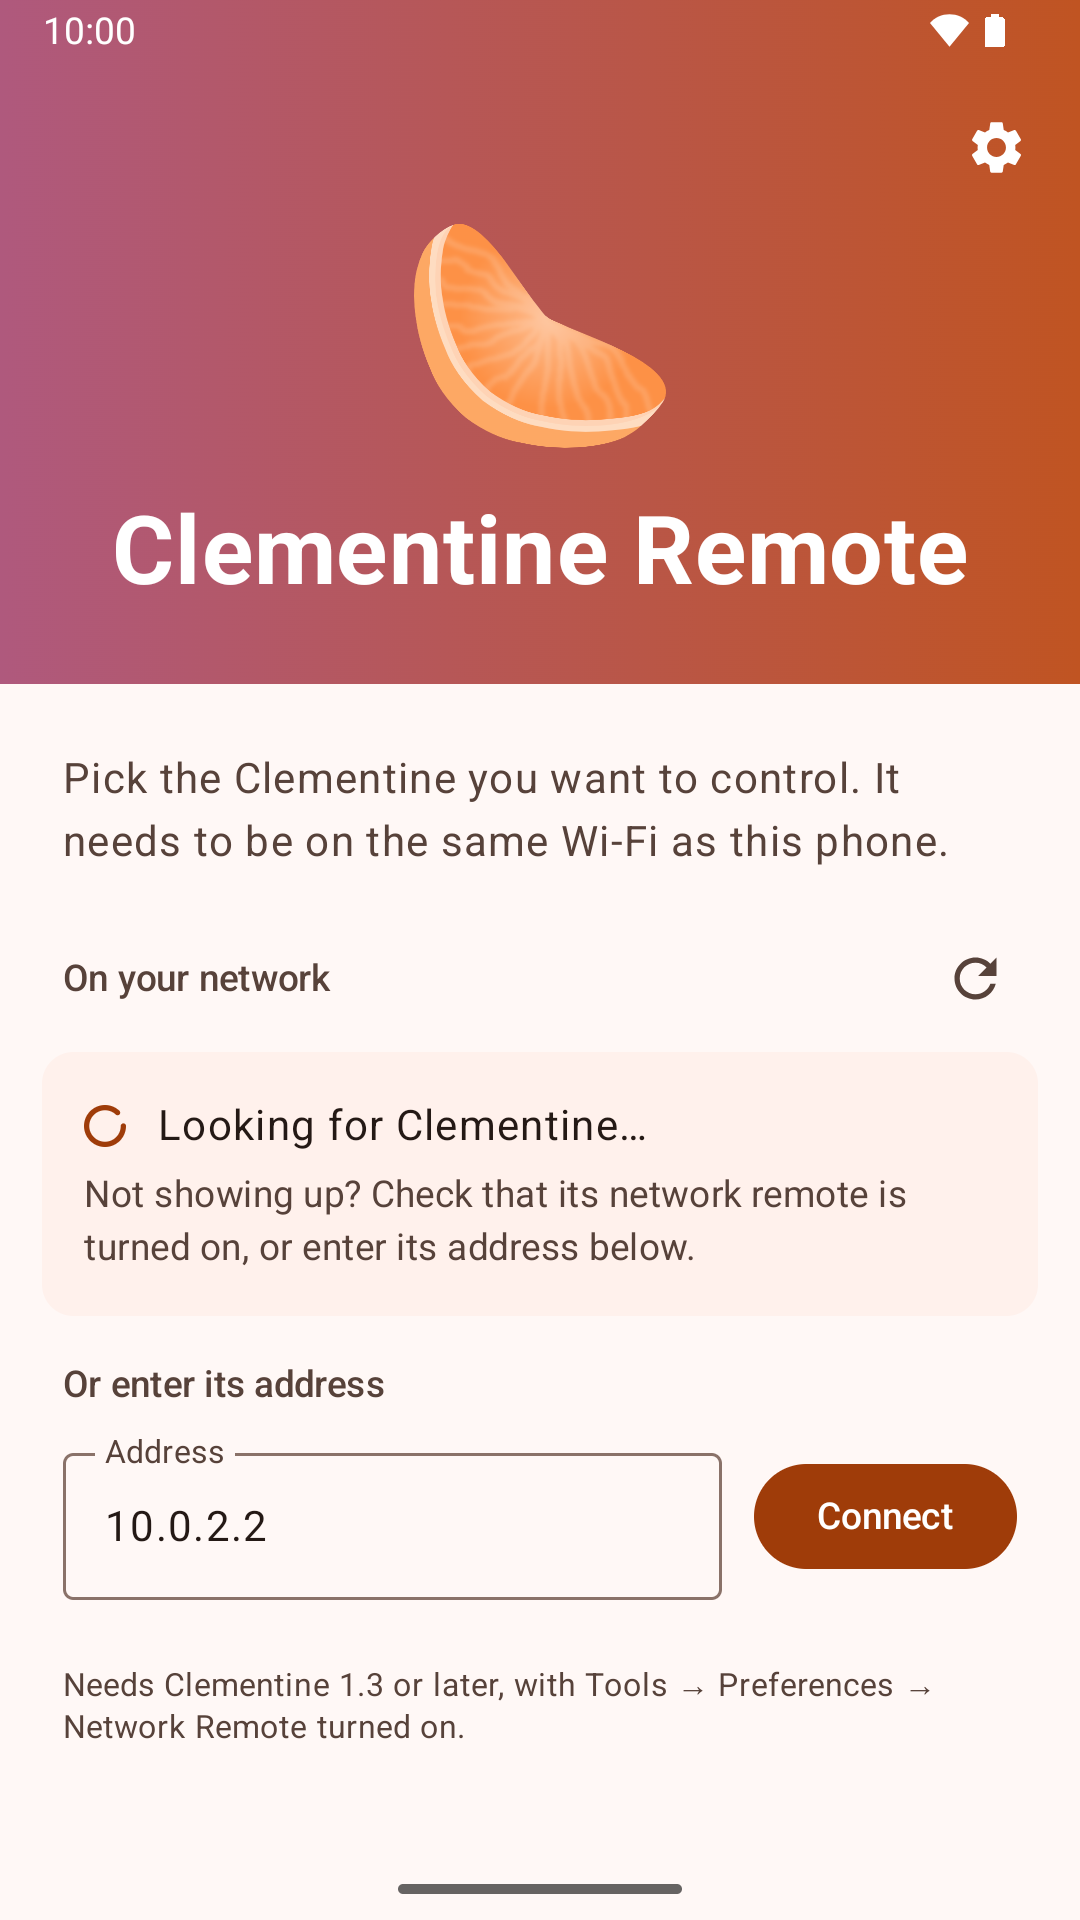
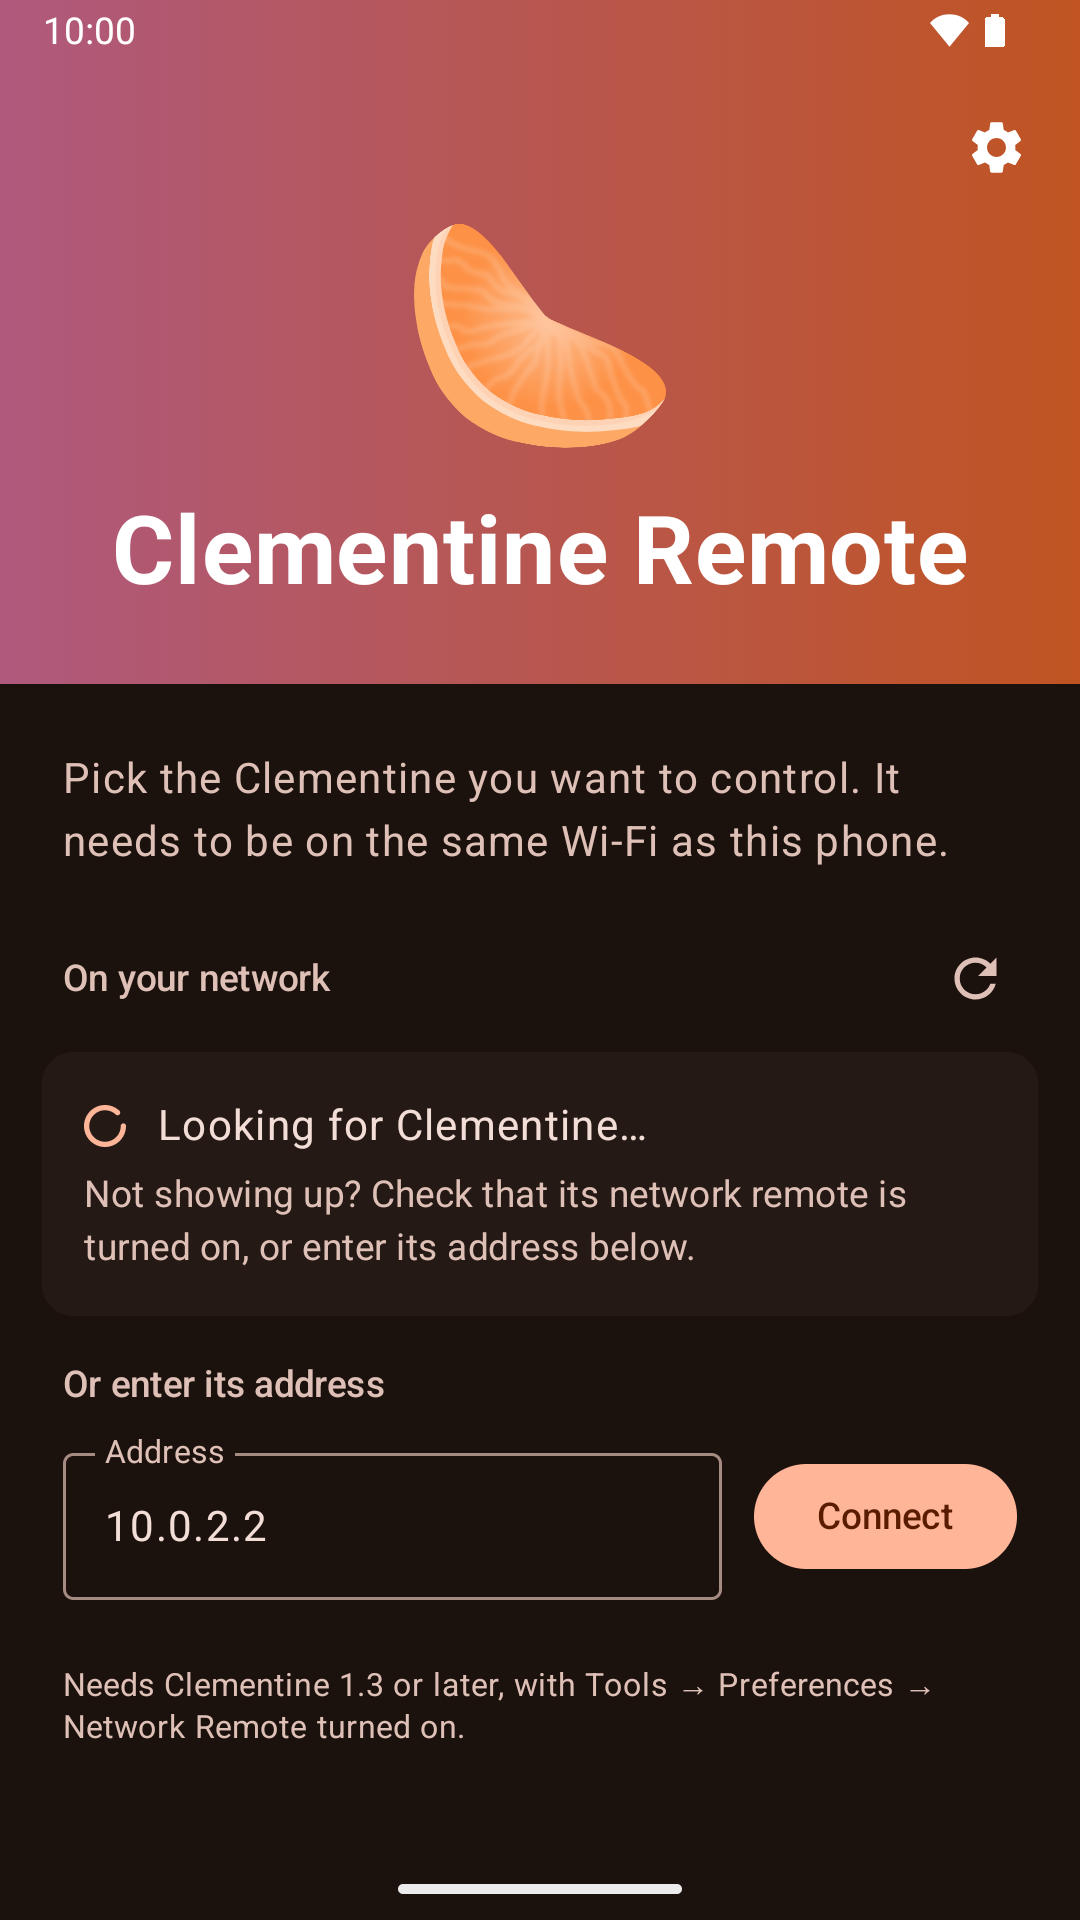
Lead the store screenshots with the dark theme
Most people use the dark theme, so the listing shows the numbered
screens in it, starting with the now-playing screen and its album
cover, then the light theme's player last, to show there is one.

Claude-Session: https://claude.ai/code/session_012foWs5vBJrYTDtfyFhJ3ky

diff --git a/scripts/store_graphics.py b/scripts/store_graphics.py
@@ -10,7 +10,8 @@
   (the connect screen's background, res/drawable/activity_background.xml) with the app's
   name, set in Liberation Sans.
 - phoneScreenshots/: the emulator screenshots from the store-screenshots workflow, if a
-  directory of them is given, copied as they are.
+  directory of them is given, copied as they are: the numbered screens in the dark theme,
+  which most people use, then the player in the light theme, to show there's one.
 
 Everything is drawn from these sources; nothing is generated.
 """
@@ -110,7 +111,12 @@ def main():
         shots = OUT / "phoneScreenshots"
         shutil.rmtree(shots, ignore_errors=True)
         shots.mkdir()
-        for i, source in enumerate(sorted(Path(sys.argv[1]).glob("[0-9]_*.png")), 1):
+        taken = Path(sys.argv[1])
+        dark = sorted(taken.glob("dark_[0-9]_*.png"))
+        if not dark:
+            sys.exit(f"No dark screenshots (dark_<n>_<screen>.png) in {taken}")
+        # Play shows at most eight.
+        for i, source in enumerate(dark + sorted(taken.glob("1_*.png")), 1):
             with Image.open(source) as image:
                 image.convert("RGB").save(shots / f"{i}.png", optimize=True)
 

diff --git a/app/src/androidTest/java/de/qspool/clementineremote/StoreScreenshots.java b/app/src/androidTest/java/de/qspool/clementineremote/StoreScreenshots.java
@@ -318,8 +318,9 @@ public class StoreScreenshots {
         SystemClock.sleep(SETTLE_MILLIS);
         screenshot("4_search");
 
-        // The same screens in the dark theme, for pull requests; the store listing takes only
-        // the numbered ones. The activity is recreated in the dark, keeping where it was.
+        // The same screens in the dark theme: the store listing takes the numbered ones, and the
+        // light theme's player after them (scripts/store_graphics.py). The activity is recreated
+        // in the dark, keeping where it was.
         shell("cmd uimode night yes");
         SystemClock.sleep(SETTLE_MILLIS);
         waitFor(tracks);
